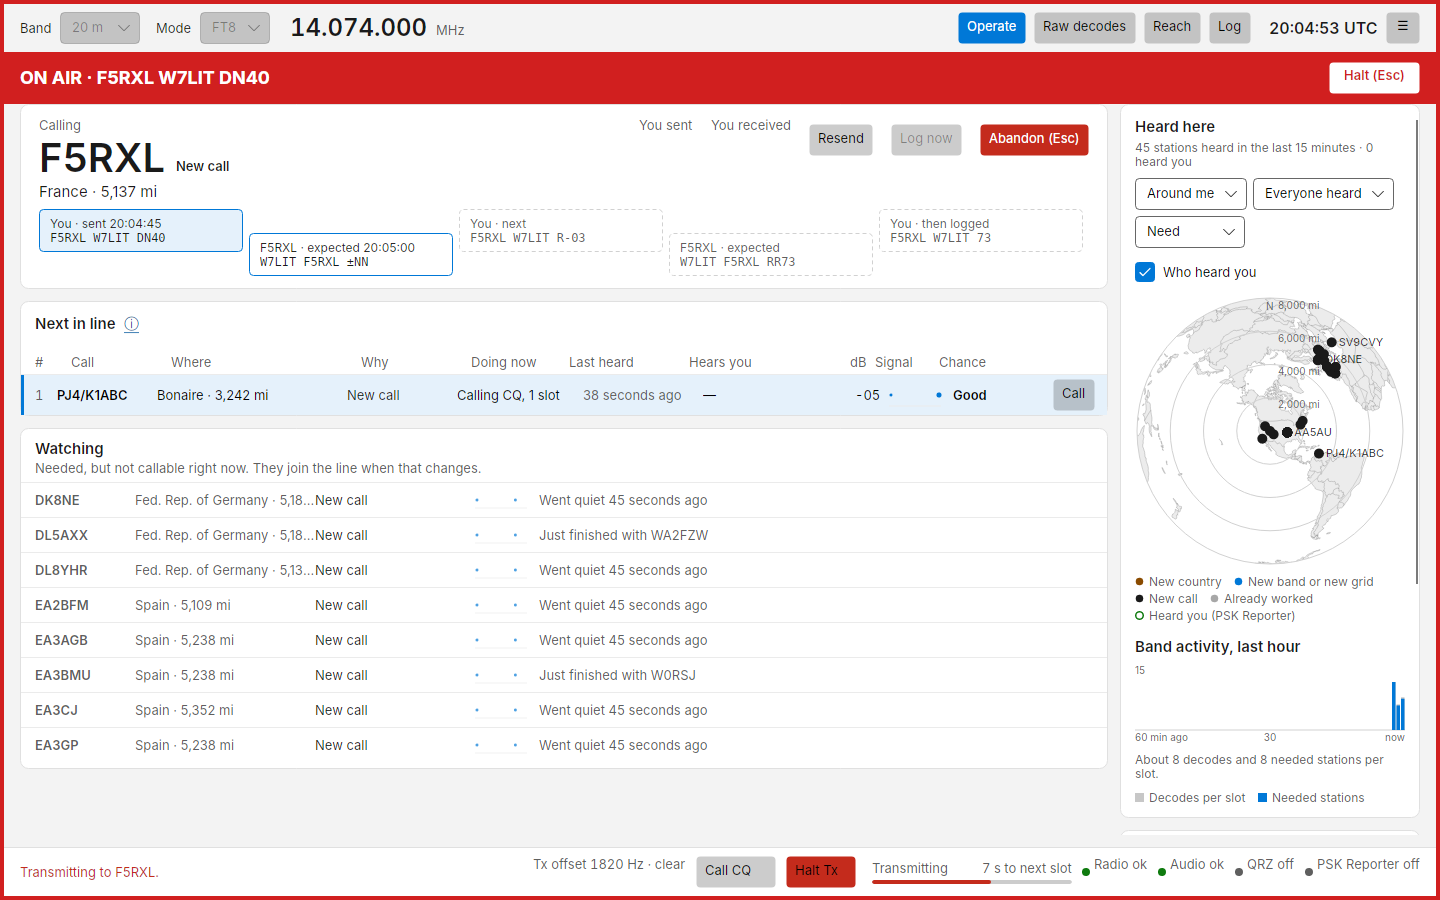
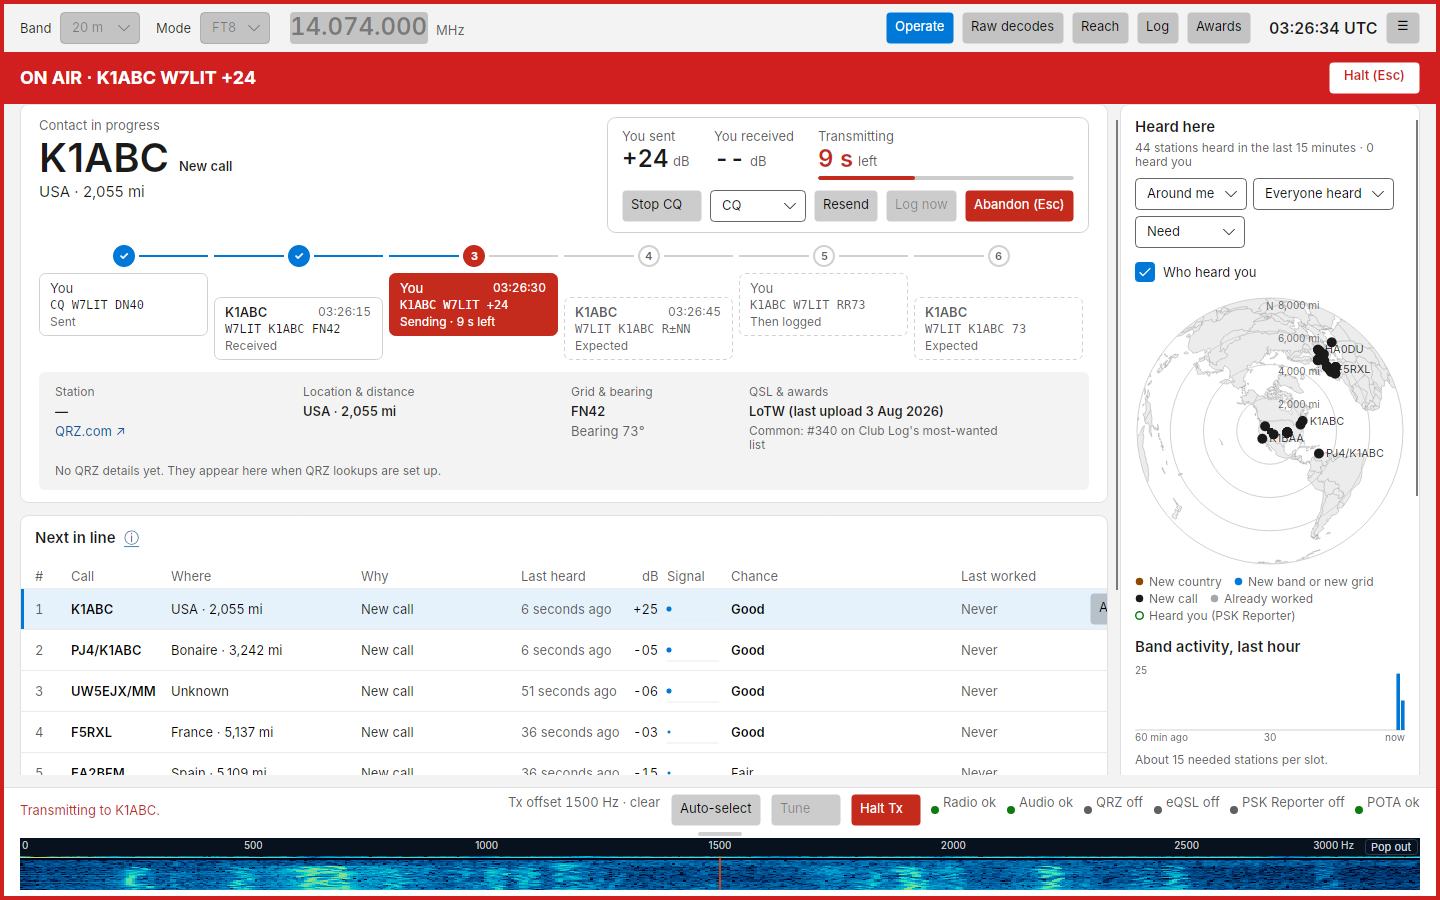
Refresh the README and manual screenshots for current main
The README and most manual screenshots dated from 2026-10-11 and no longer
matched the app: no Awards button, POTA or eQSL indicators, a five-box
contact strip, an older Settings list, and no mention of usage statistics.

Retook the screenshots from the app running in simulation under Xvfb with
the sample recordings, as W7LIT in DN40. Added images for the Awards view
and the Settings pages that had none (Hunt list, LoTW, Mobile connection,
Privacy, eQSL). The README now lists the features built since (Hunt list,
LoTW, awards, resizable waterfall, mini mode, phone remote, FLRig) and has
a Privacy section saying what the opt-out statistics send and how to turn
them off.

Claude-Session: https://claude.ai/code/session_01Apoejhc2j5iBWxyuNCwGBP

diff --git a/README.md b/README.md
@@ -22,13 +22,23 @@ log, whether the station is free to call, and whether it can hear you.
   worked them, one click to call them again.
 - **Hears you and Chance**: from PSK Reporter, whether each station (or someone near it) hears your signal, and a
   Good / Fair / Long shot rating.
-- **One-click contacts**: click **Call** or press Enter. Costas runs the standard exchange, shows each step in a
-  five-box strip, and logs the contact when it completes.
+- **One-click contacts**: click **Call** or press Enter. Costas runs the standard exchange, shows each step on a
+  progress strip, and logs the contact when it completes. Clicking **Call** on a recognised DXpedition Fox works it
+  the Hound way automatically.
 - **Calling you bar**: anyone who calls you is pinned above the list with an **Answer** button, and a station that
   replies after you gave up can be picked up again with **Resume**.
-- **Logging and QRZ**: a local log with ADIF import and export, uploaded to your QRZ logbook and optionally eQSL as you go, with eQSL inbox and confirmation sync.
-- **Maps**: who you hear (Heard here) and who hears you (Reach), centred on your grid.
-- **Works with your other tools**: WSJT-X UDP for GridTracker, JTAlert and loggers.
+- **Hunt list**: the countries, calls, US states or grids you are after, with an alert when one is heard, on your
+  band or (through PSK Reporter) any other. Alerts never transmit.
+- **Logging and confirmations**: a local log with ADIF import and export, uploaded to your QRZ logbook, LoTW (through
+  TQSL) and eQSL as you go, with confirmations synced back.
+- **Awards**: DXCC, WAS, WAZ and VUCC progress from your own log, and when you usually hear each country you still
+  need.
+- **Maps**: who you hear (Heard here) and who hears you (Reach), centred on your grid, with band activity near you.
+- **A waterfall you can size**: drag it taller in the main window or pop it out into its own window.
+- **Mini mode and phone remote**: shrink Costas to a strip that stays on top, or operate from a phone or tablet on
+  your home network.
+- **Works with your other tools**: WSJT-X UDP for GridTracker, JTAlert and loggers; FLRig and network rigctld as
+  well as direct Hamlib control.
 - **Safe by design**: it never transmits on its own, never changes a message silently, and has a watchdog,
   band-edge check, clock check and PTT release on any fault.
 
@@ -40,6 +50,14 @@ log, whether the station is free to call, and whether it can hear you.
 <tr>
 <td align="center">A contact in progress</td>
 <td align="center">Someone calling you while you work another station</td>
+</tr>
+<tr>
+<td><img src="manual/images/awards.png" alt="The Awards view"></td>
+<td><img src="manual/images/log.png" alt="The Log view"></td>
+</tr>
+<tr>
+<td align="center">Award progress and the countries you still need</td>
+<td align="center">The log, with QRZ, LoTW and eQSL status</td>
 </tr>
 </table>
 
@@ -82,9 +100,23 @@ The [manual](https://somedudenamedtony.github.io/costas/) covers every screen an
 [making contacts](https://somedudenamedtony.github.io/costas/contacts/),
 [maps](https://somedudenamedtony.github.io/costas/maps/),
 [the log and QRZ](https://somedudenamedtony.github.io/costas/log/),
+[the Hunt list](https://somedudenamedtony.github.io/costas/hunt/),
+[awards](https://somedudenamedtony.github.io/costas/awards/),
+[operating from a phone](https://somedudenamedtony.github.io/costas/phone/),
 [settings](https://somedudenamedtony.github.io/costas/settings/) and
 [troubleshooting](https://somedudenamedtony.github.io/costas/troubleshooting/).
 Its source is in [`manual/`](manual/) if you prefer to read it here.
+
+## Privacy
+
+Costas sends anonymous usage statistics to [Aptabase](https://aptabase.com) so its developer can see how many people
+use it and which features matter. It sends the Costas version, Windows or Linux, the band and mode, the kind of radio
+connection and Hamlib model number, which optional features are on, and which views and actions you use. It never
+sends your callsign, grid, name, frequencies, the stations you hear or work, or anything from your log, and there is no
+account or tracking id. Nothing is sent while you are offline, in simulation, or from a build you make yourself.
+
+To turn it off, untick **Settings › Privacy › Send anonymous usage statistics**. The full list is in
+[the manual](https://somedudenamedtony.github.io/costas/settings/#privacy).
 
 ## Status
 

diff --git a/manual/settings.md b/manual/settings.md
@@ -76,6 +76,8 @@ line*.
 
 ## Hunt list
 
+![Settings: Hunt list](images/settings-hunt-list.png)
+
 What you are looking for, and how you are told. See [Hunt list and alerts](hunt.md).
 
 - **Looking for**: the entries, each with **Remove**.
@@ -99,6 +101,8 @@ QRZ has two services, each with its own sign-in. Both are optional.
 The key and password are kept in Windows Credential Manager.
 
 ## LoTW
+
+![Settings: LoTW](images/settings-lotw.png)
 
 Logbook of the World confirmations, uploads through TQSL, and the list of LoTW users. See [LoTW](log.md#lotw).
 
@@ -133,6 +137,8 @@ The password is kept in Windows Credential Manager.
 
 ## Mobile connection
 
+![Settings: Mobile connection](images/settings-mobile-connection.png)
+
 - **Let a paired phone on this network operate the station**: off by default. Takes effect at once and shows a
   **Pair a phone** card with the address and a large one-time code.
 - **Forget paired phones** unpairs them all. **Port**: `8073`, applied when you save.
@@ -153,6 +159,8 @@ See [Operating from a phone](phone.md).
 **Check for a new build once a day** (on) and **Check now**. See [Install › Updates](install.md#updates).
 
 ## Privacy
+
+![Settings: Privacy](images/settings-privacy.png)
 
 **Send anonymous usage statistics** (on). Costas sends a few anonymous counts to [Aptabase](https://aptabase.com),
 an open-source analytics service built for privacy, so its developer can see how many people use it and which features
@@ -192,6 +200,8 @@ calls), and Station setup lists Hamlib's test radio, *Hamlib Dummy*, which never
 testing Costas, not for operating.
 
 ## eQSL
+
+![Settings: eQSL](images/settings-eqsl.png)
 
 In **Settings › eQSL**, enter your eQSL.cc username and password, and copy the **QTH nickname** for the
 current callsign and location from your eQSL account. Credentials stay in the system credential store when

diff --git a/manual/awards.md b/manual/awards.md
@@ -6,6 +6,8 @@ The Awards view shows how far your log is towards the common awards, and which c
 on when you actually hear each one. Everything comes from your own log and your own decodes; nothing is looked up
 online.
 
+![The Awards view](images/awards.png)
+
 ## Award progress
 
 The left side has a card for each award:
